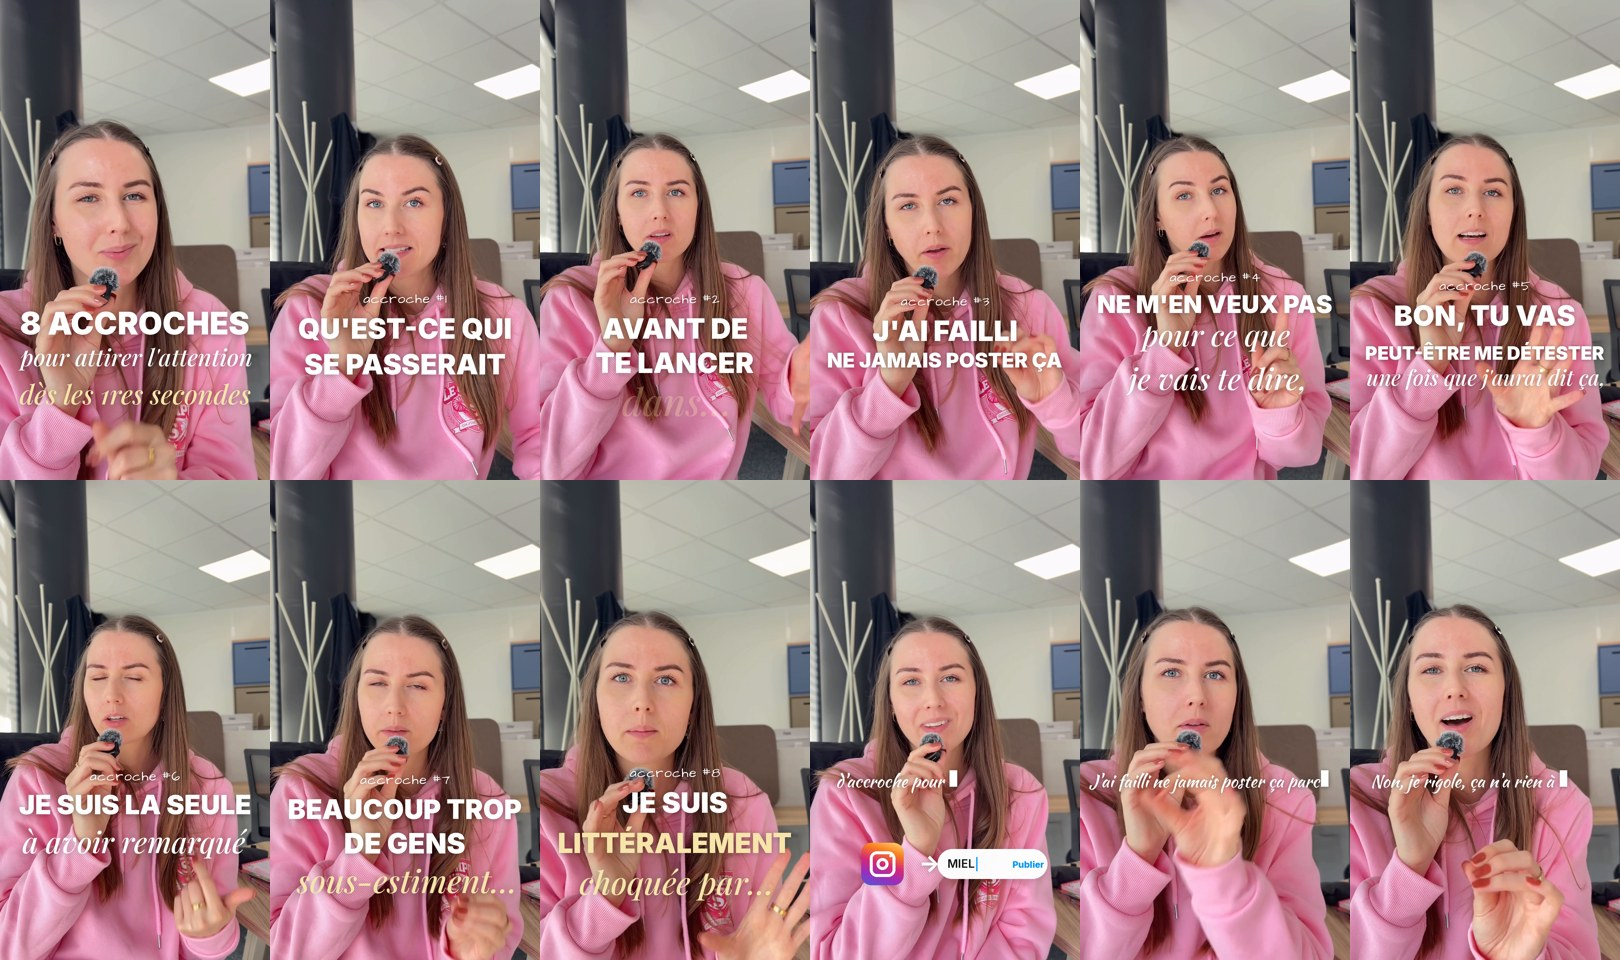
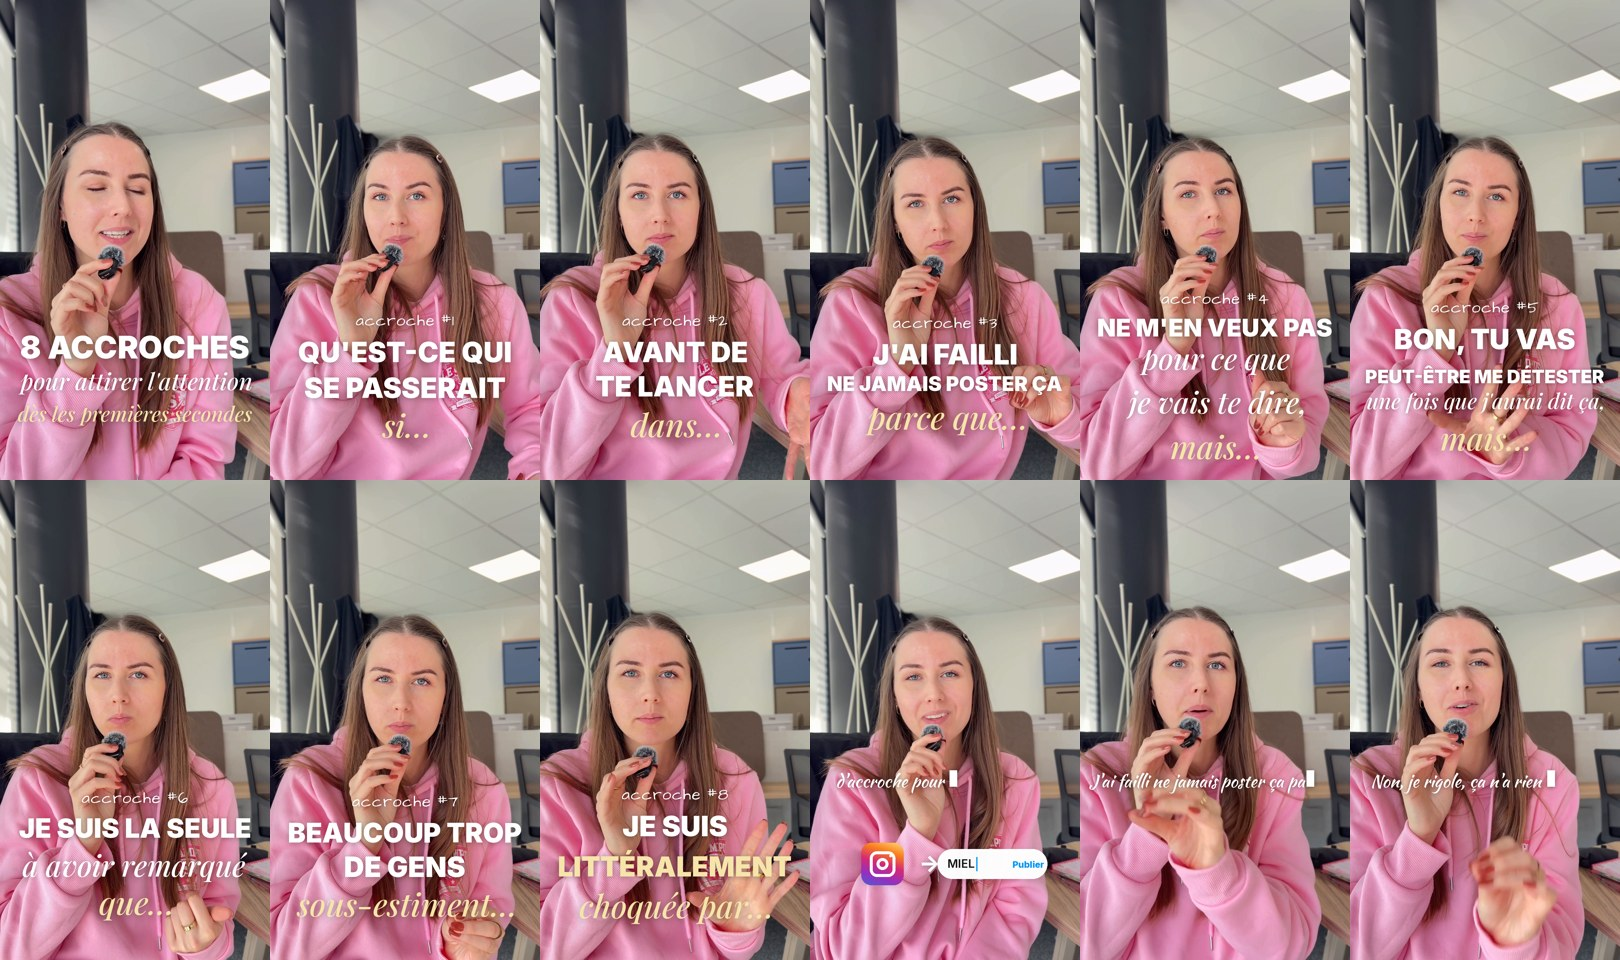
Reel « 8 accroches » : version simplifiée
Rythme plus lent (respiration après chaque phrase), accroches affichées
en entier d'un coup avec fondu doux, sans fondus orangés, sans bruitages
ni zooms alternés.

Claude-Session: https://claude.ai/code/session_01ERWT8xsd9r4hXkyfUmzuUu

diff --git a/tools/reel_v2.py b/tools/reel_v2.py
@@ -161,6 +161,8 @@ class Kinetic(El):
         tot = sum(sp.height + gap for sp, _ in self.lines) + (self.head.height + 6 if self.head else 0)
         self.y = s.get("y", 0.75) * H - tot / 2
         self.sfx = [(self.t0, "woosh", 0.35)] + [(ta, "pop", 0.22) for _, ta in self.lines[1:]]
+        if s.get("simple"):
+            self.lines = [(sp, self.t0) for sp, _ in self.lines]
 
     def draw(self, c, t):
         _, out = self.life(t)
@@ -170,6 +172,10 @@ class Kinetic(El):
             put(c, self.head, W / 2, y + self.head.height / 2, alpha=a * out)
             y += self.head.height + 6
         for spr, ta in self.lines:
+            if self.s.get("simple"):
+                put(c, spr, W / 2, y + spr.height / 2, alpha=ease_out((t - self.t0) / 0.4) * out)
+                y += spr.height + self.s.get("gap", -18)
+                continue
             x = (t - ta) / 0.22
             if x >= 0:
                 sc = 1.35 - 0.35 * ease_out(x)
@@ -703,6 +709,8 @@ def main():
     # sons : liste d'événements
     events = [tuple(x) + (None,) * (4 - len(x)) for e in els for x in e.sfx if 0 <= x[0] < total]
     events += [(w - 0.3, "woosh", 0.45, None) for w in [T(x) for x in st.get("fondus", [])]]
+    if st.get("sons", True) is False:
+        events = []
     events.sort()
     sfx_in = " ".join(f'-i "{os.path.join(SFX, n + ".mp3")}"' for _, n, _, _ in events)
     fc = "[0:v][1:v]overlay=0:0:format=auto,format=yuv420p[v];"

diff --git a/tools/render_hd.py b/tools/render_hd.py
@@ -25,7 +25,7 @@ import face
 W, H, FPS = fx.W, fx.H, 30
 WORKDIR = '.'
 RYTHME = {  # marge gardée avant / après chaque mot (s)
-    "max": (0.03, 0.05), "soutenu": (0.05, 0.08), "naturel": (0.09, 0.16)}
+    "max": (0.03, 0.05), "soutenu": (0.05, 0.08), "naturel": (0.09, 0.16), "lent": (0.15, 0.75)}
 
 
 def sh(cmd, inp=None):
